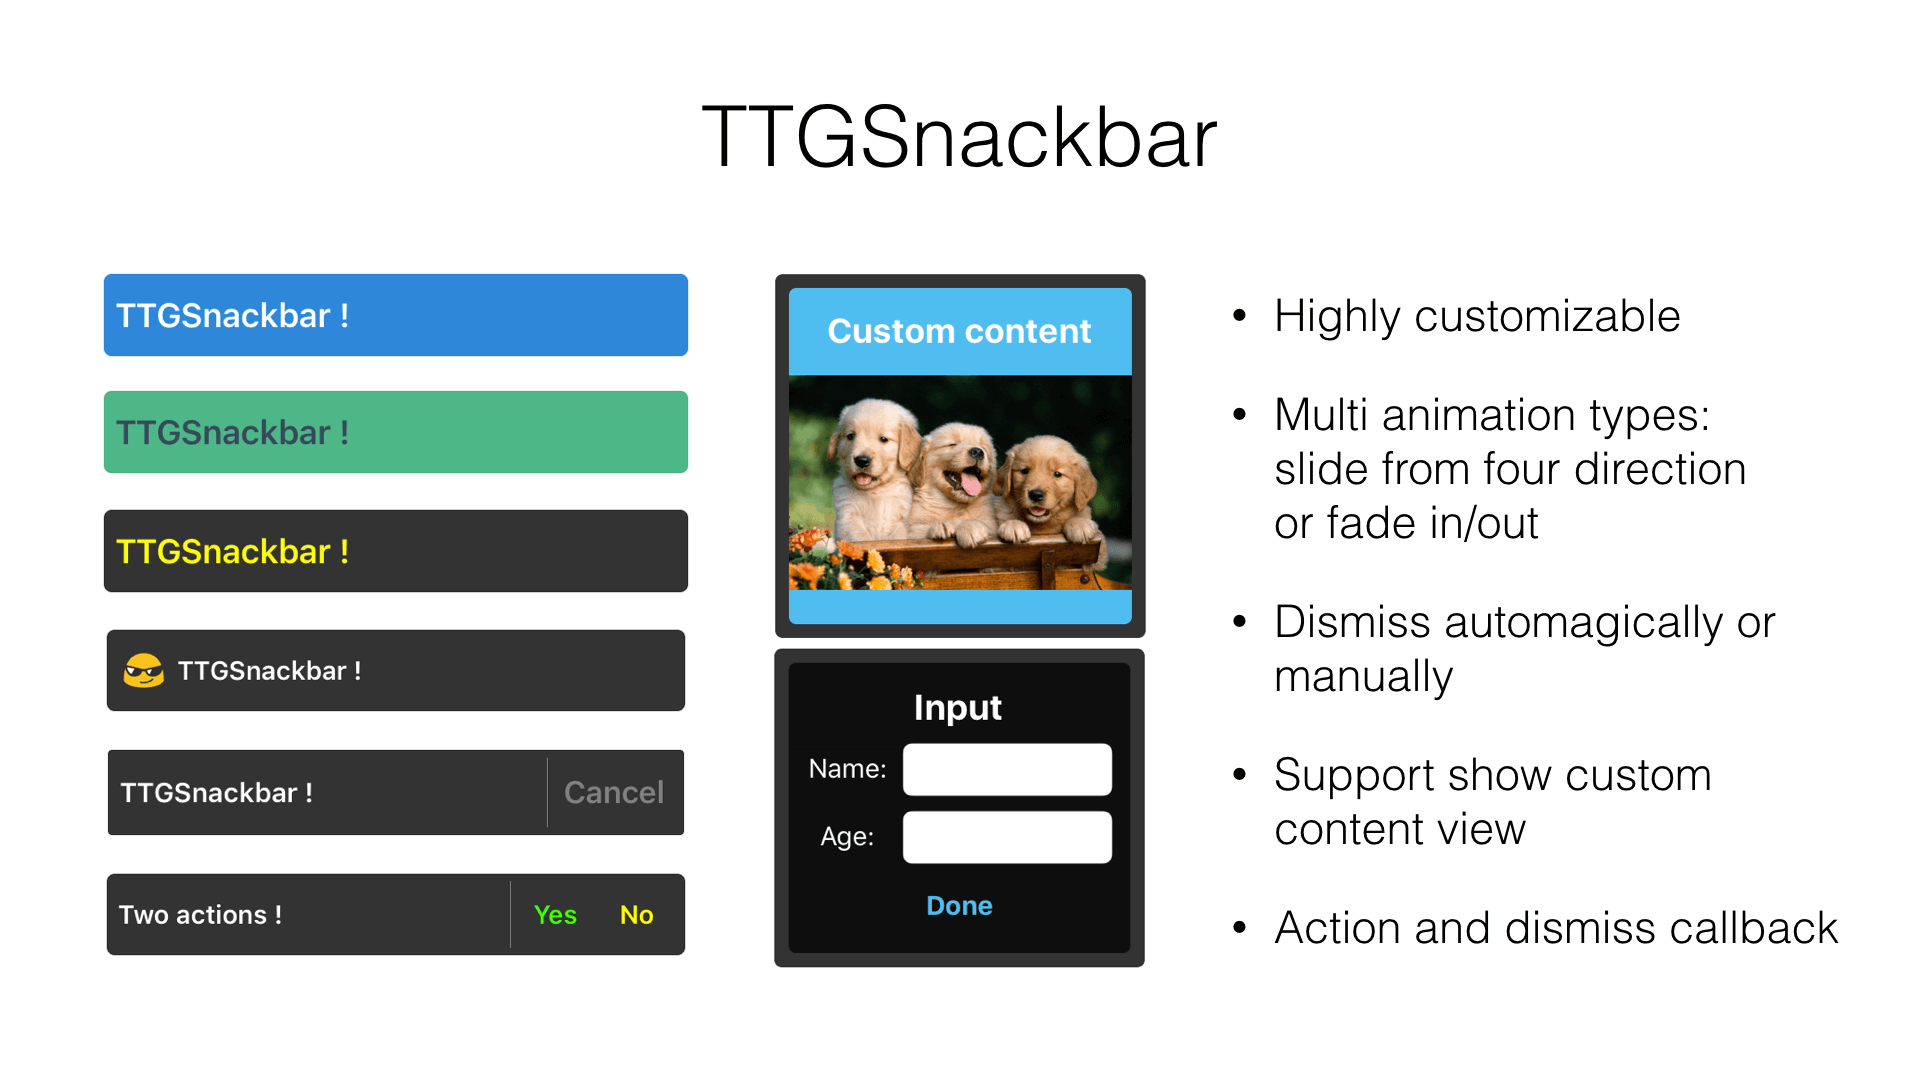
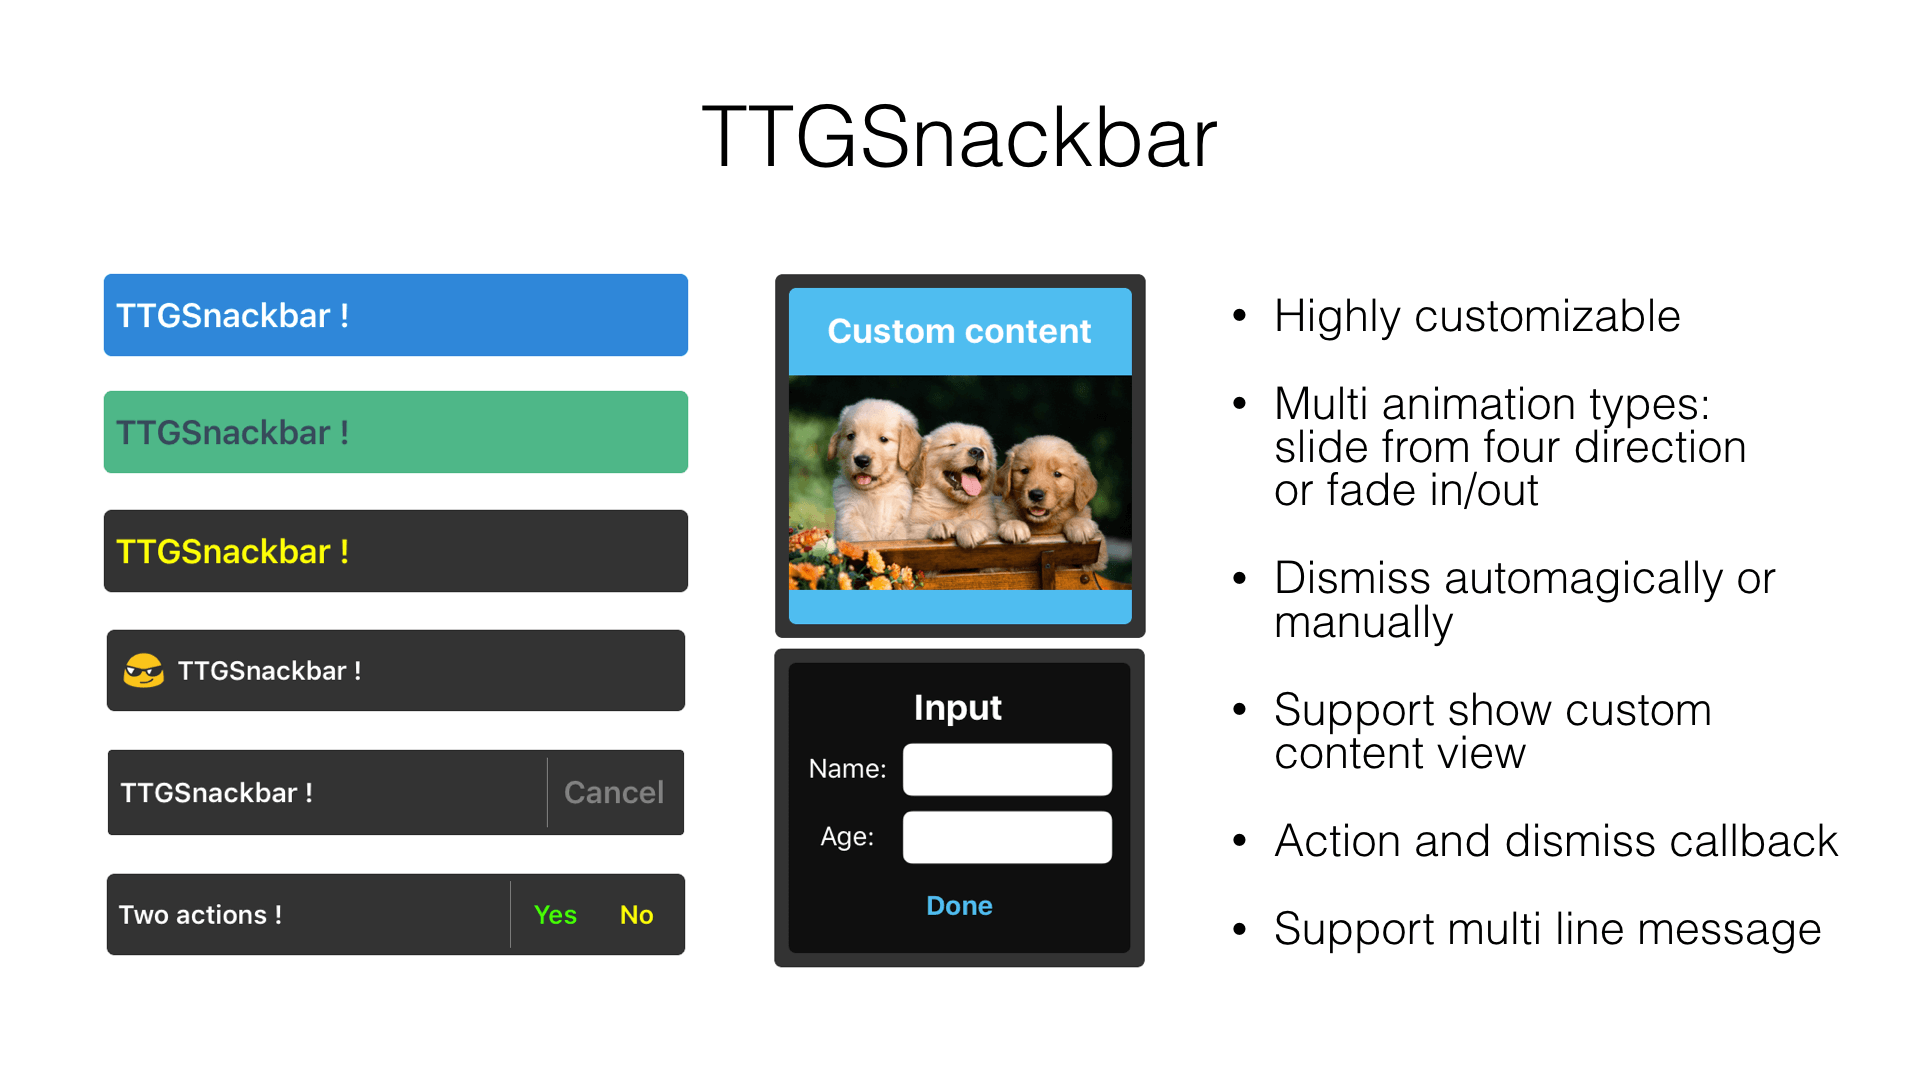
1. Bump version to 1.4.0 2. Update README

Changed region(s): [[0.625, 0.3667, 0.9688, 0.7944], [0.6562, 0.825, 0.9688, 0.8861]]

diff --git a/README.md b/README.md
@@ -122,7 +122,7 @@ snackbar.show()
 
 # Customization
 ### Message
-`message: String` defines the message to diaplay.
+`message: String` defines the message to diaplay. **Support multi line text.**
 
 ### Message text color
 `messageTextColor: UIColor` defines the message text color.
@@ -200,8 +200,20 @@ The default value of `animationType` is `SlideFromBottomBackToBottom`, which is 
 ### [New!] Custom content view
 `customContentView: UIView?` defines the custom content view to show in the snackbar.
 
-### Separator line view background color
+### [New!] Separator line view background color
 `separateViewBackgroundColor: UIColor = UIColor.gray` defines the separator line color.
+
+### ActivityIndicatorViewStyle
+`activityIndicatorViewStyle: UIActivityIndicatorViewStyle` defines the activityIndicatorViewStyle in snackbar.
+
+### ActivityIndicatorView color
+`activityIndicatorViewColor: UIColor` defines the activityIndicatorView color in snackbar.
+
+### Animation SpringWithDamping
+`animationSpringWithDamping: CGFloat` defines the spring animation damping value. Default is 0.7.
+
+### Animation initialSpringVelocity
+`animationInitialSpringVelocity: CGFloat` defines the spring animation initial velocity. Default is 5.
 
 # Contact me
 zekunyan@163.com
